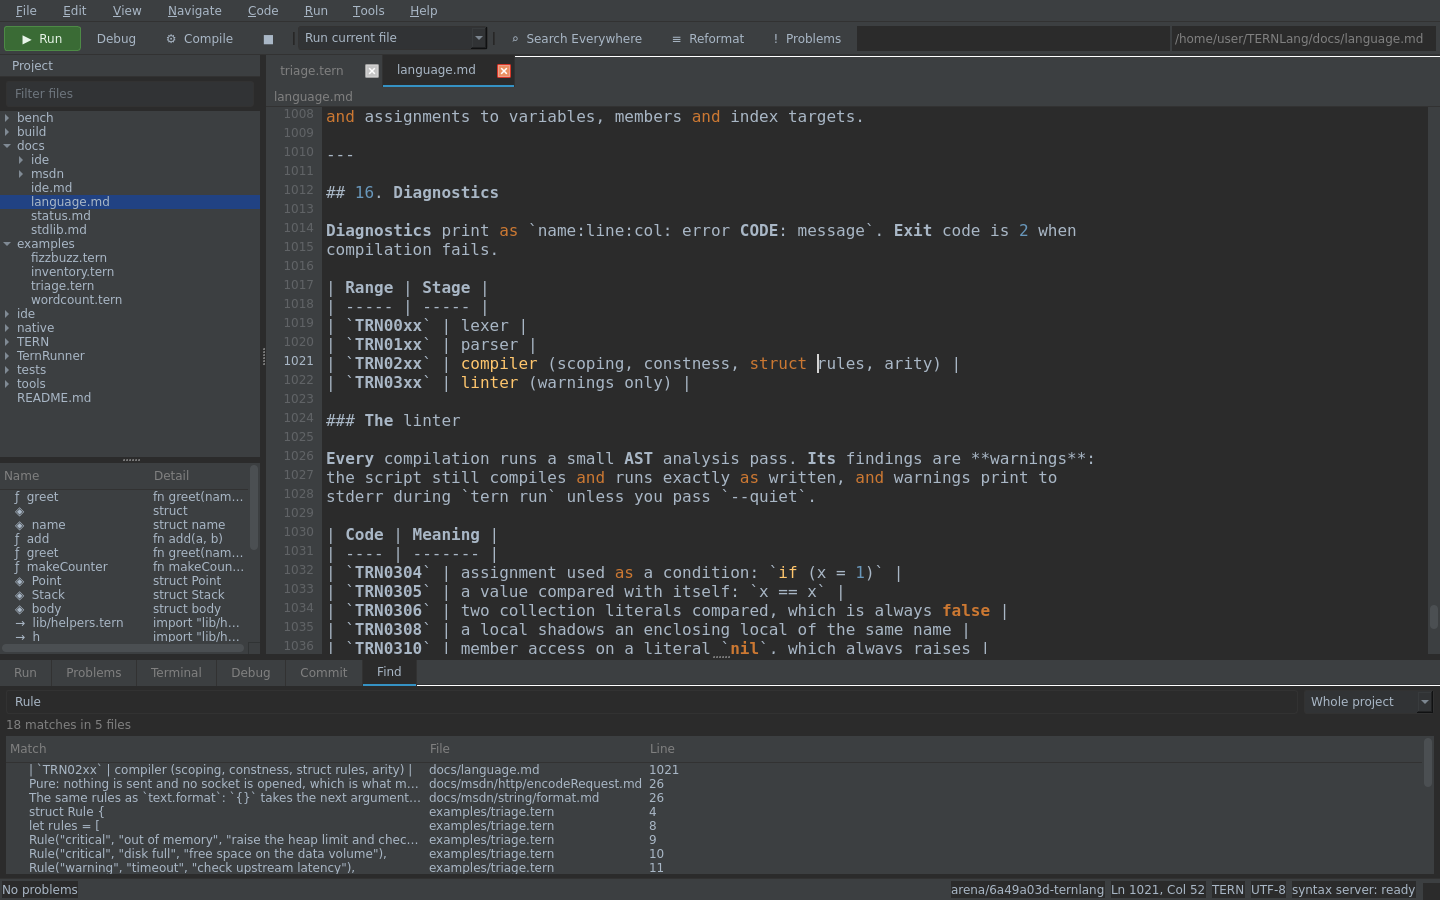
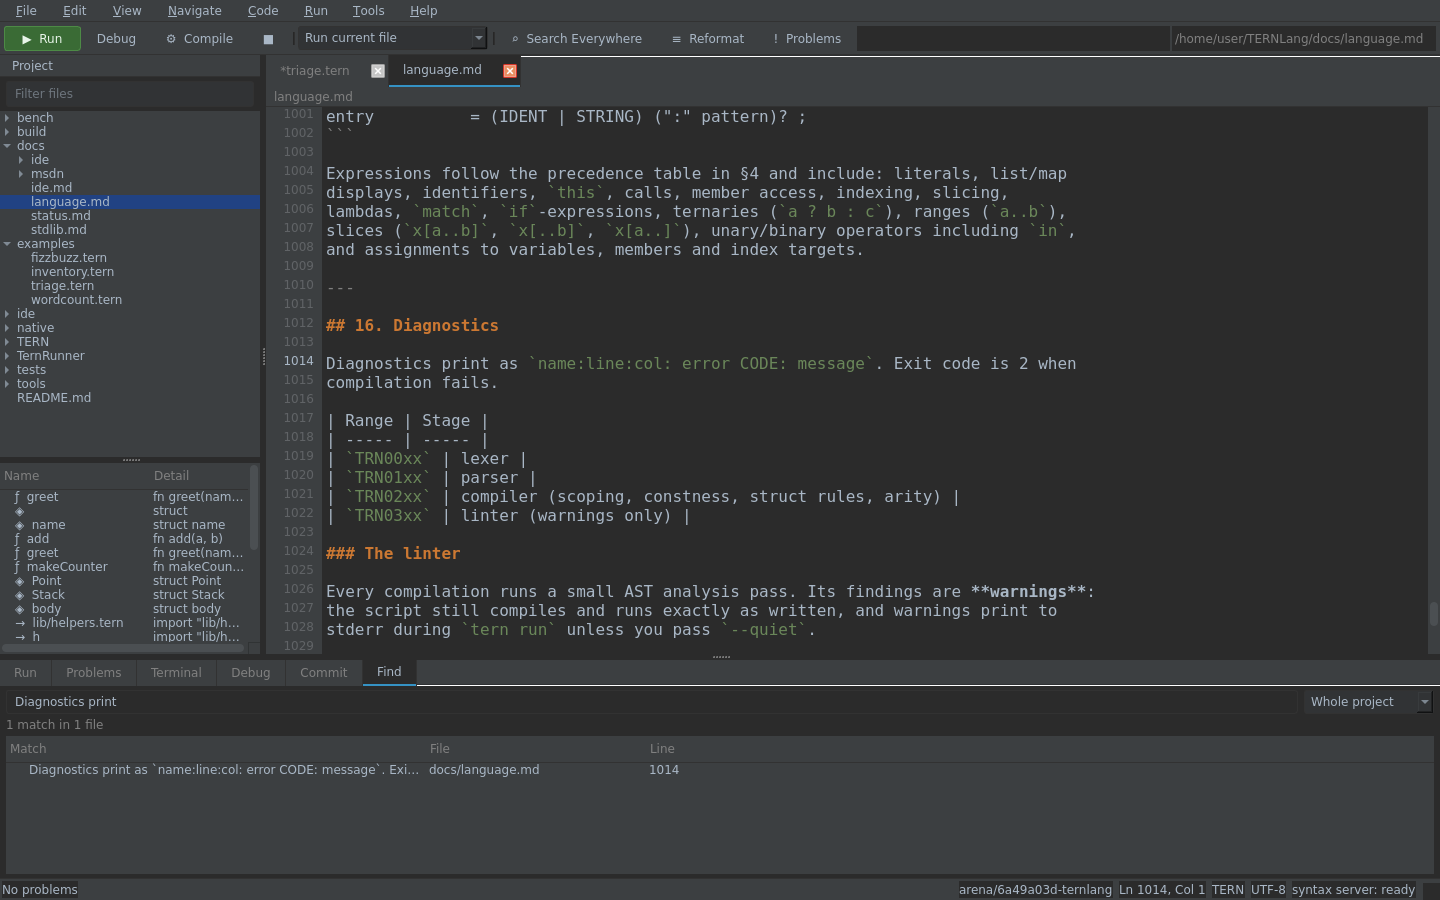
Colour Markdown, and make the screenshots' states reproducible
Opening docs/language.md painted TERN keywords all over a prose document,
because every page got the TERN highlighter whatever its extension. The
editor now picks by extension: TERN's colours for .tern, a light Markdown
treatment (headings, code spans, links, emphasis, lists, quotes) for .md, and
nothing for anything else.

tools/ide/shots.py generates the Find in Path screenshot too, opening a
Markdown hit at its line so the picture shows both the search results and a
document that is not a script. Every image in docs/ide.md is now produced by
that script or by the test suite, and nothing is captured by hand.

The two headless entry points exit through os._exit after collecting garbage:
several windows, editors and highlighter documents are still alive at the end,
and letting Python finalise them in arbitrary order made PySide6 abort inside
GC with "none_dealloc: deallocating None". The suites were passing and then
printing a fatal error; now they exit quietly with the right status.

diff --git a/ide/Studio/highlighter.py b/ide/Studio/highlighter.py
@@ -151,3 +151,43 @@ class TernHighlighter(QSyntaxHighlighter):
 
             self.setFormat(start, end - start + 2, self._comment)
             start = text.find("/*", end + 2)
+
+
+class MarkdownHighlighter(QSyntaxHighlighter):
+    """Headings, code, links and emphasis, so a README reads as a document.
+
+    Not a Markdown parser: ten rules that catch what the eye needs in the
+    project's own pages, applied line by line.
+    """
+
+    def __init__(self, document, theme):
+        super().__init__(document)
+        self._theme = theme
+        self.build()
+
+    def set_theme(self, theme):
+        self._theme = theme
+        self.build()
+        self.rehighlight()
+
+    def build(self):
+        theme = self._theme
+        self._rules = [
+            # A heading is the whole line, from the hashes to the end.
+            (QRegularExpression(r"^#{1,6} .*$"), format_for(theme, "keyword", bold=True)),
+            (QRegularExpression(r"^(===+|---+)$"), format_for(theme, "comment")),
+            (QRegularExpression(r"`[^`]*`"), format_for(theme, "string")),
+            (QRegularExpression(r"\*\*[^*]+\*\*"), format_for(theme, "type", bold=True)),
+            (QRegularExpression(r"(?<!\*)\*[^*\s][^*]*\*"), format_for(theme, "member", italic=True)),
+            (QRegularExpression(r"\[[^\]]*\]\([^)]*\)"), format_for(theme, "number")),
+            (QRegularExpression(r"^\s*[-*+] "), format_for(theme, "keyword")),
+            (QRegularExpression(r"^> .*$"), format_for(theme, "comment", italic=True)),
+            (QRegularExpression(r"^```.*$"), format_for(theme, "comment")),
+        ]
+
+    def highlightBlock(self, text):
+        for pattern, style in self._rules:
+            iterator = pattern.globalMatch(text)
+            while iterator.hasNext():
+                match = iterator.next()
+                self.setFormat(match.capturedStart(), match.capturedLength(), style)

diff --git a/tools/ide/shots.py b/tools/ide/shots.py
@@ -122,7 +122,27 @@ def main():
     pump(app, 4500)
     save("run.png")
 
-    # 6. The light theme.
+    # 6. Find in Path, with a Markdown hit opened at its line.
+    window.show_find_in_path("Diagnostics print")
+    pump(app, 700)
+    hits = window.find_panel.results
+    chosen = None
+    from PySide6.QtCore import Qt as _Qt
+    for index in range(hits.topLevelItemCount()):
+        candidate = hits.topLevelItem(index).data(0, _Qt.UserRole)
+        if candidate[0].endswith(".md"):
+            chosen = candidate
+            break
+    if chosen is None and hits.topLevelItemCount():
+        chosen = hits.topLevelItem(0).data(0, _Qt.UserRole)
+    if chosen is not None:
+        window._goto_line_column(*chosen)
+        pump(app, 500)
+        save("find-in-path.png")
+    window.open_file(editor.path)
+    pump(app, 300)
+
+    # 7. The light theme.
     window.set_theme("light")
     pump(app, 400)
     save("light.png")
@@ -135,4 +155,10 @@ def main():
 
 
 if __name__ == "__main__":
-    sys.exit(main())
+    status = main()
+    # As in ui_test.py: quit while Qt still exists rather than letting Python
+    # finalise the window and its documents in an arbitrary order.
+    import gc
+    gc.collect()
+    sys.stdout.flush()
+    os._exit(status)

diff --git a/ide/Studio/editor.py b/ide/Studio/editor.py
@@ -16,7 +16,7 @@ from PySide6.QtWidgets import (QHBoxLayout, QLabel, QLineEdit, QListWidget,
                                QListWidgetItem, QPlainTextEdit, QPushButton,
                                QTextEdit, QToolTip, QVBoxLayout, QWidget)
 
-from .highlighter import TernHighlighter
+from .highlighter import MarkdownHighlighter, TernHighlighter
 from .theme import colour, monospace
 
 
@@ -184,8 +184,15 @@ class Editor(QPlainTextEdit):
         self.setLineWrapMode(QPlainTextEdit.NoWrap)
         self.setCursorWidth(2)
 
-        self.highlighter = (TernHighlighter(self.document(), theme)
-                            if str(path).endswith(".tern") else None)
+        # A TERN file gets the language's colours; a Markdown page gets a
+        # light treatment of its own, so documentation does not read as grey
+        # text; anything else is left alone.
+        if str(path).endswith(".tern"):
+            self.highlighter = TernHighlighter(self.document(), theme)
+        elif str(path).endswith(".md"):
+            self.highlighter = MarkdownHighlighter(self.document(), theme)
+        else:
+            self.highlighter = None
         self.setPlainText(text)
 
         self.gutter = LineNumberArea(self)

diff --git a/tools/ide/ui_test.py b/tools/ide/ui_test.py
@@ -546,4 +546,13 @@ def _uri(path):
 
 
 if __name__ == "__main__":
-    sys.exit(main())
+    status = main()
+    # Tear the interpreter down deliberately: several windows, editors and
+    # highlighter documents are still alive, and letting Python finalise them in
+    # arbitrary order makes PySide6 abort during garbage collection. Quitting
+    # every object while the Qt application still exists avoids that.
+    import gc
+    gc.collect()
+    sys.stdout.flush()
+    sys.stderr.flush()
+    os._exit(status)

diff --git a/docs/ide.md b/docs/ide.md
@@ -151,8 +151,10 @@ expression is used when the query parses as one.
 ![Find in Path](ide/img/find-in-path.png)
 
 Only `.tern` files are sent to the language server. Opening a Markdown page is
-ordinary text editing: no diagnostics, no TERN keyword colouring, which is both
-correct and the reason a 2,000-line page does not cost anything to open.
+ordinary text editing with a lighter highlighter of its own — headings, code
+spans, links and emphasis — and no TERN diagnostics, which is both correct and
+the reason a 2,000-line page costs nothing to open. The screenshots in this
+file are Markdown, so they show exactly that.
 
 ## Debugging
 
